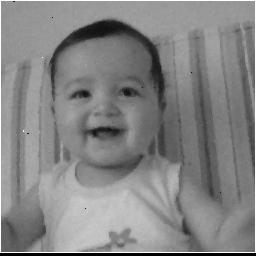
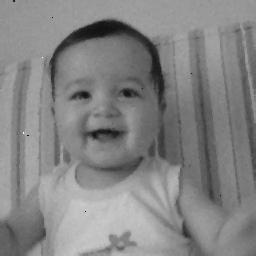
Wrapping window for edges, is working

diff --git a/MPI_Median.cpp b/MPI_Median.cpp
@@ -122,13 +122,14 @@ void Master ()
     unsigned char slave [y_portions[proc]][Input.Width*Input.Components];
     for(int j = 0; j < y_portions[proc]; j++)
     {
+
       if(proc > 0 && j ==0)
         indexer = indexer + y_portions[proc-1] - 2*(WINDOW_Y/2);//TODO: If the last j is unassigned make it -1
-
       for (int i =0; i < Input.Width*Input.Components; i++)
         slave[j][i] = Input.Rows[j+indexer][i];
+
     }
-    printf("Indexer: %d\n", indexer);
+    
 
     int size = sizeof(unsigned char)*y_portions[proc]*Input.Width*Input.Components;
     MPI_Send(slave, size, MPI_CHAR, proc+1, TAG, MPI_COMM_WORLD);
@@ -173,23 +174,24 @@ void Master ()
       for(int y = (int)WINDOW_Y/2; y < y_portions[j-1]; y++)
       {
         if (j > 1 && y == (int)WINDOW_Y/2)
-          indexer += y_portions[j-2]-WINDOW_Y;
+          indexer += y_portions[j-2]-WINDOW_Y+WINDOW_Y/2;
 
         for(int x = 0; x < Input.Width*Input.Components; x++)
           Output.Rows[y+indexer][x] = slave[y][x];
+
+
       }
     }
     else{
       for(int y = (int)WINDOW_Y/2; y < y_portions[j-1]- (int)WINDOW_Y/2; y++)
       {
         if (j > 1 && y ==(int)WINDOW_Y/2)
-          indexer += y_portions[j-2]-WINDOW_Y;
+          indexer += y_portions[j-2]-WINDOW_Y+WINDOW_Y/2;
 
         for(int x = 0; x < Input.Width*Input.Components; x++)
           Output.Rows[y+indexer][x] = slave[y][x];
       }
     }
-    //printf("%d\n", counter);
   }
   printf("Time = %lg ms\n", (double)toc()/1e-3);
   printf("Writing JPEG...\n\n");
@@ -237,10 +239,10 @@ void Slave(int ID)
   int colcheck =0;
   int x, y;
 
-  for(y = int(window_y/2); y < dimensions[0]-int(window_y/2); y++)
+  for(y = 0; y < dimensions[0]; y++)
   {
 
-    for(x = int(window_x/2)*dimensions[2]; x < dimensions[1]-int(window_x/2)*dimensions[2]; x=x+dimensions[2])
+    for(x = 0; x < dimensions[1]; x=x+dimensions[2])
     {
 
       int sum = 0;
@@ -250,7 +252,40 @@ void Slave(int ID)
         {
           for (int colour = 0; colour < dimensions[2]; colour++)
           {
-            window[colour][counter] = input_arr[y+j][x+i+colour];
+            // Checking if window is at edge (top or left)
+            if (y+j > -1 && (x+i+colour)>-1 && (x+i+colour) < dimensions[1] && y+j < dimensions[0])
+            {
+              window[colour][counter] = input_arr[y+j][x+i+colour];
+            }
+            else if (y+j < 0)
+            {
+              if ((x+i+colour)<0)
+              {
+                window[colour][counter] = input_arr[y+j+window_y][x+i+colour+window_x];
+              }
+              else
+                window[colour][counter] = input_arr[y+j+window_y][x+i+colour];
+            }
+            else if (y+j > -1 && (x+i+colour)<0)
+            {
+              window[colour][counter] = input_arr[y+j][x+i+colour+window_x];
+            }
+
+            // Checking if window is at edge (bottom or right)
+            else if (y+j >= dimensions[0])
+            {
+              if ((x+i+colour) >= dimensions[1])
+              {
+                window[colour][counter] = input_arr[y+j-window_y][x+i+colour-window_x];
+              }
+              else
+                window[colour][counter] = input_arr[y+j-window_y][x+i+colour];
+            }
+            else if (y+j < dimensions[0] && (x+i+colour) >= dimensions[1])
+            {
+              window[colour][counter] = input_arr[y+j][x+i+colour-window_x];
+            }
+
           }
           counter++;
         }
@@ -260,6 +295,7 @@ void Slave(int ID)
 
       for (int colour = 0; colour < dimensions[2]; colour++)
         out_arr[y][x+colour] = window[colour][int(counter/2)];
+
 
       counter =0;
       //printf("Help me I want to die\n");
